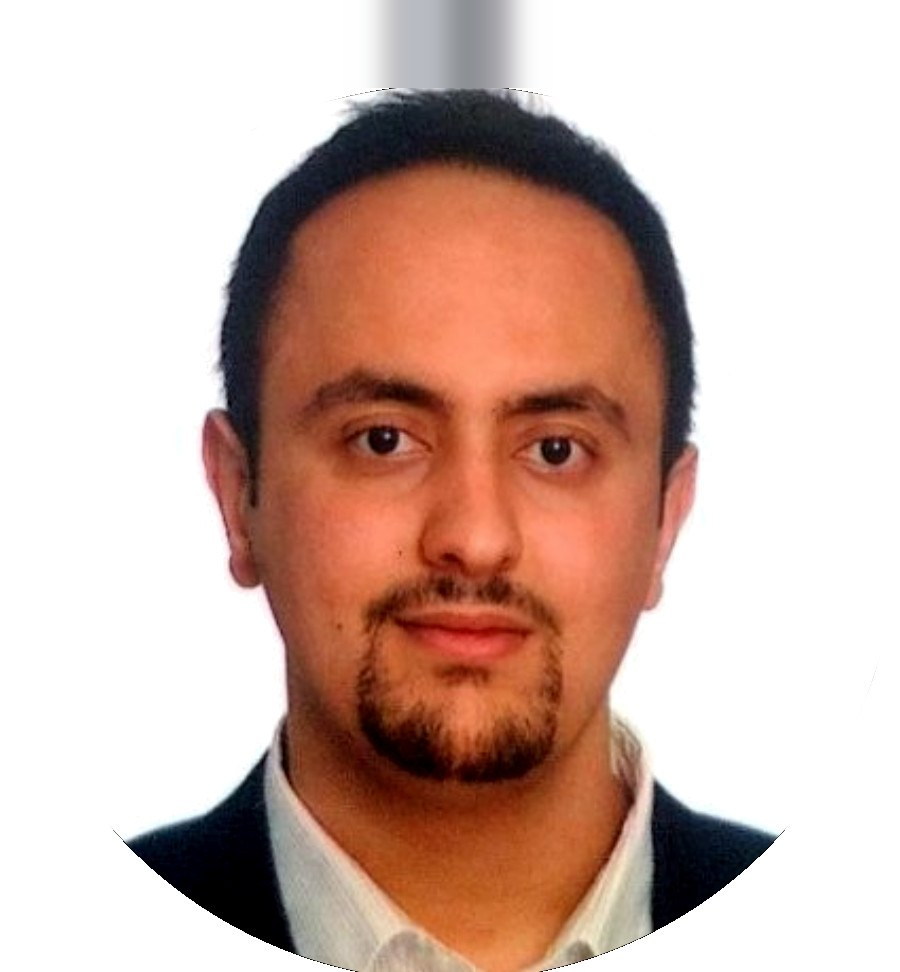
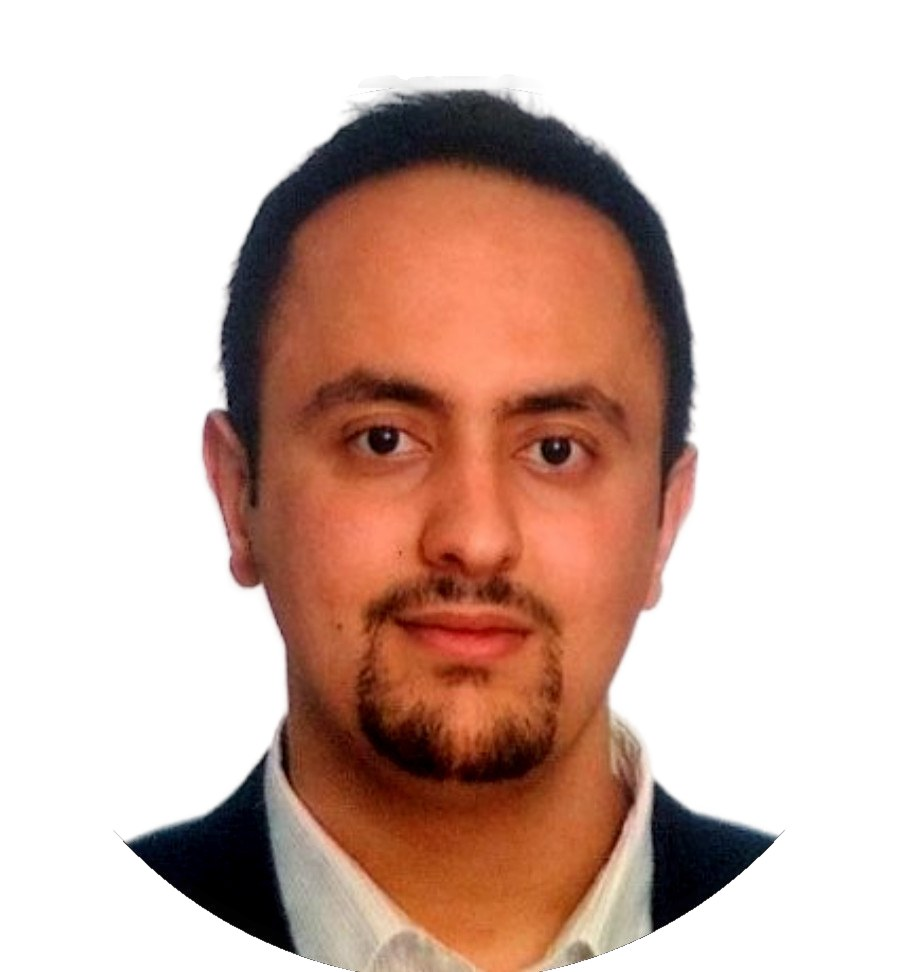
Replace Mohammad's portrait with manually cleaned version; cache-bust portrait images

diff --git a/_includes/portrait.html b/_includes/portrait.html
@@ -17,7 +17,7 @@
     aria-label="{{ member.name | default: "member link" }}"
   >
     <img
-      src="{{ member.image | relative_url }}"
+      src="{{ member.image | relative_url }}?v={{ site.time | date: '%s' }}"
       class="portrait-image"
       {% if member.image_position %}style="object-position: {{ member.image_position }}"{% endif %}
       alt="member portrait"
